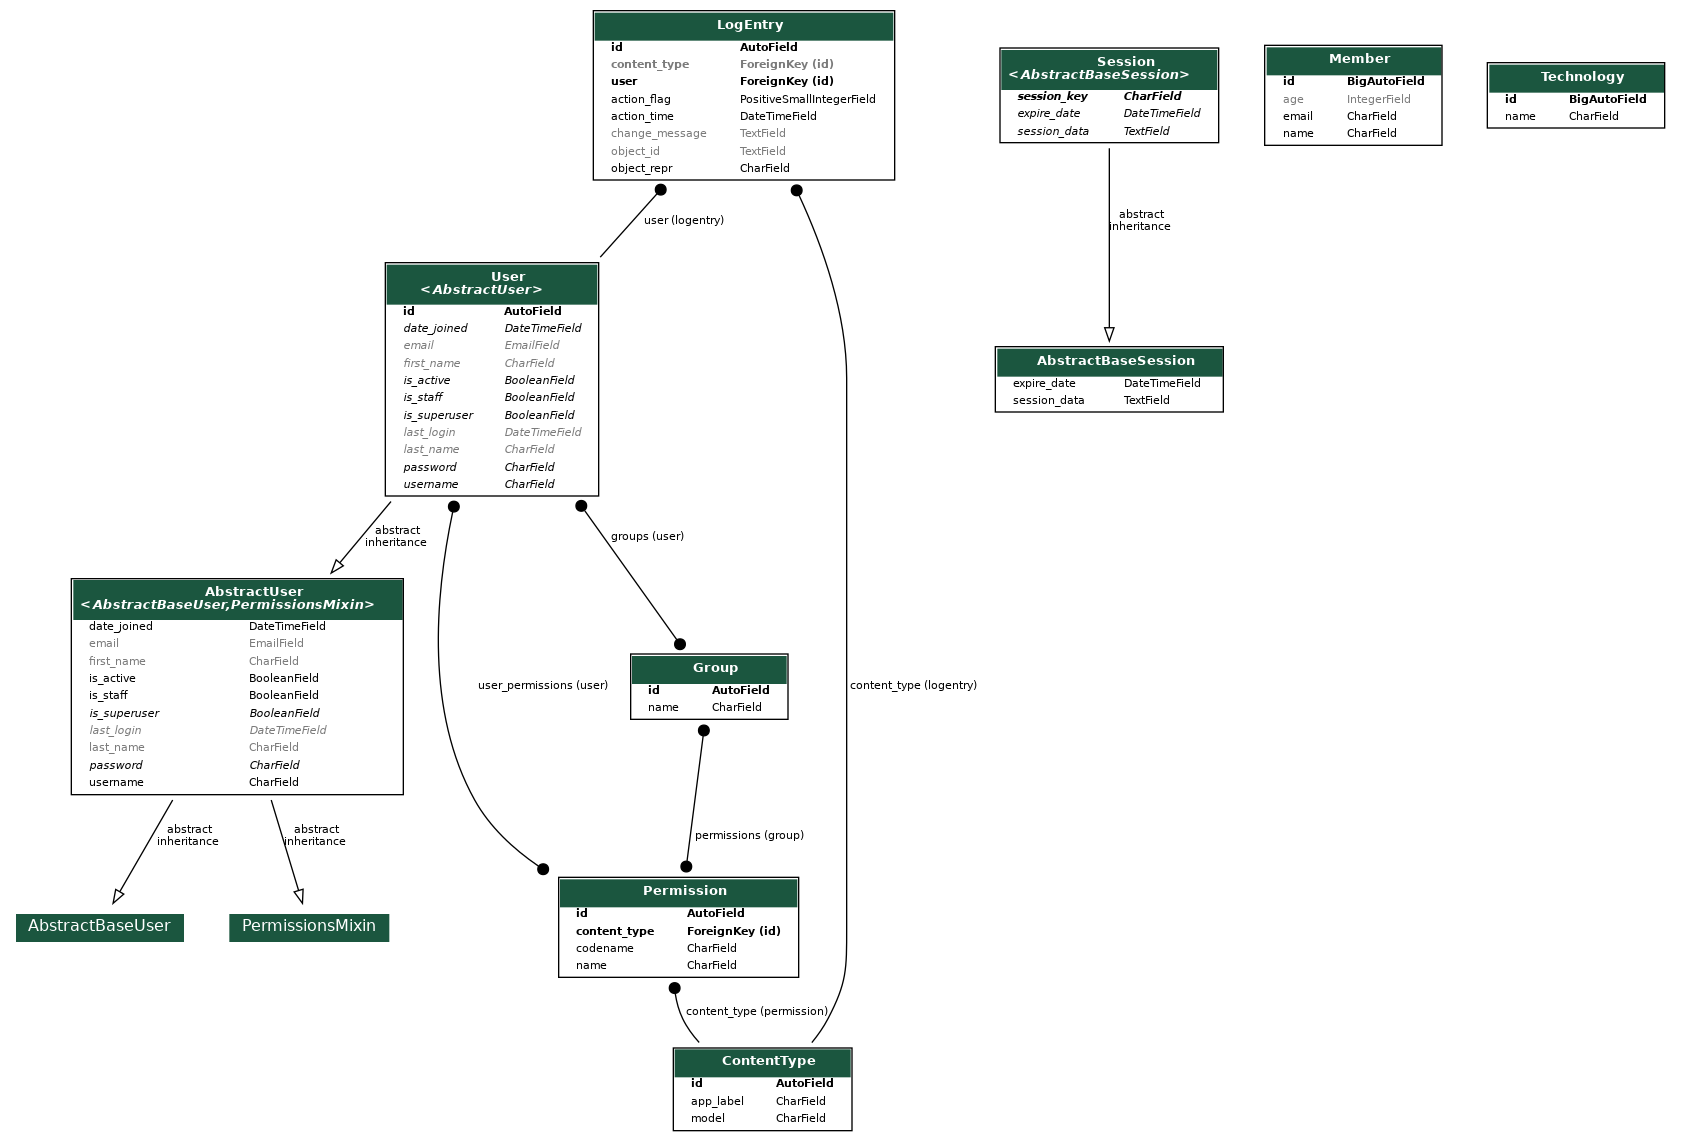
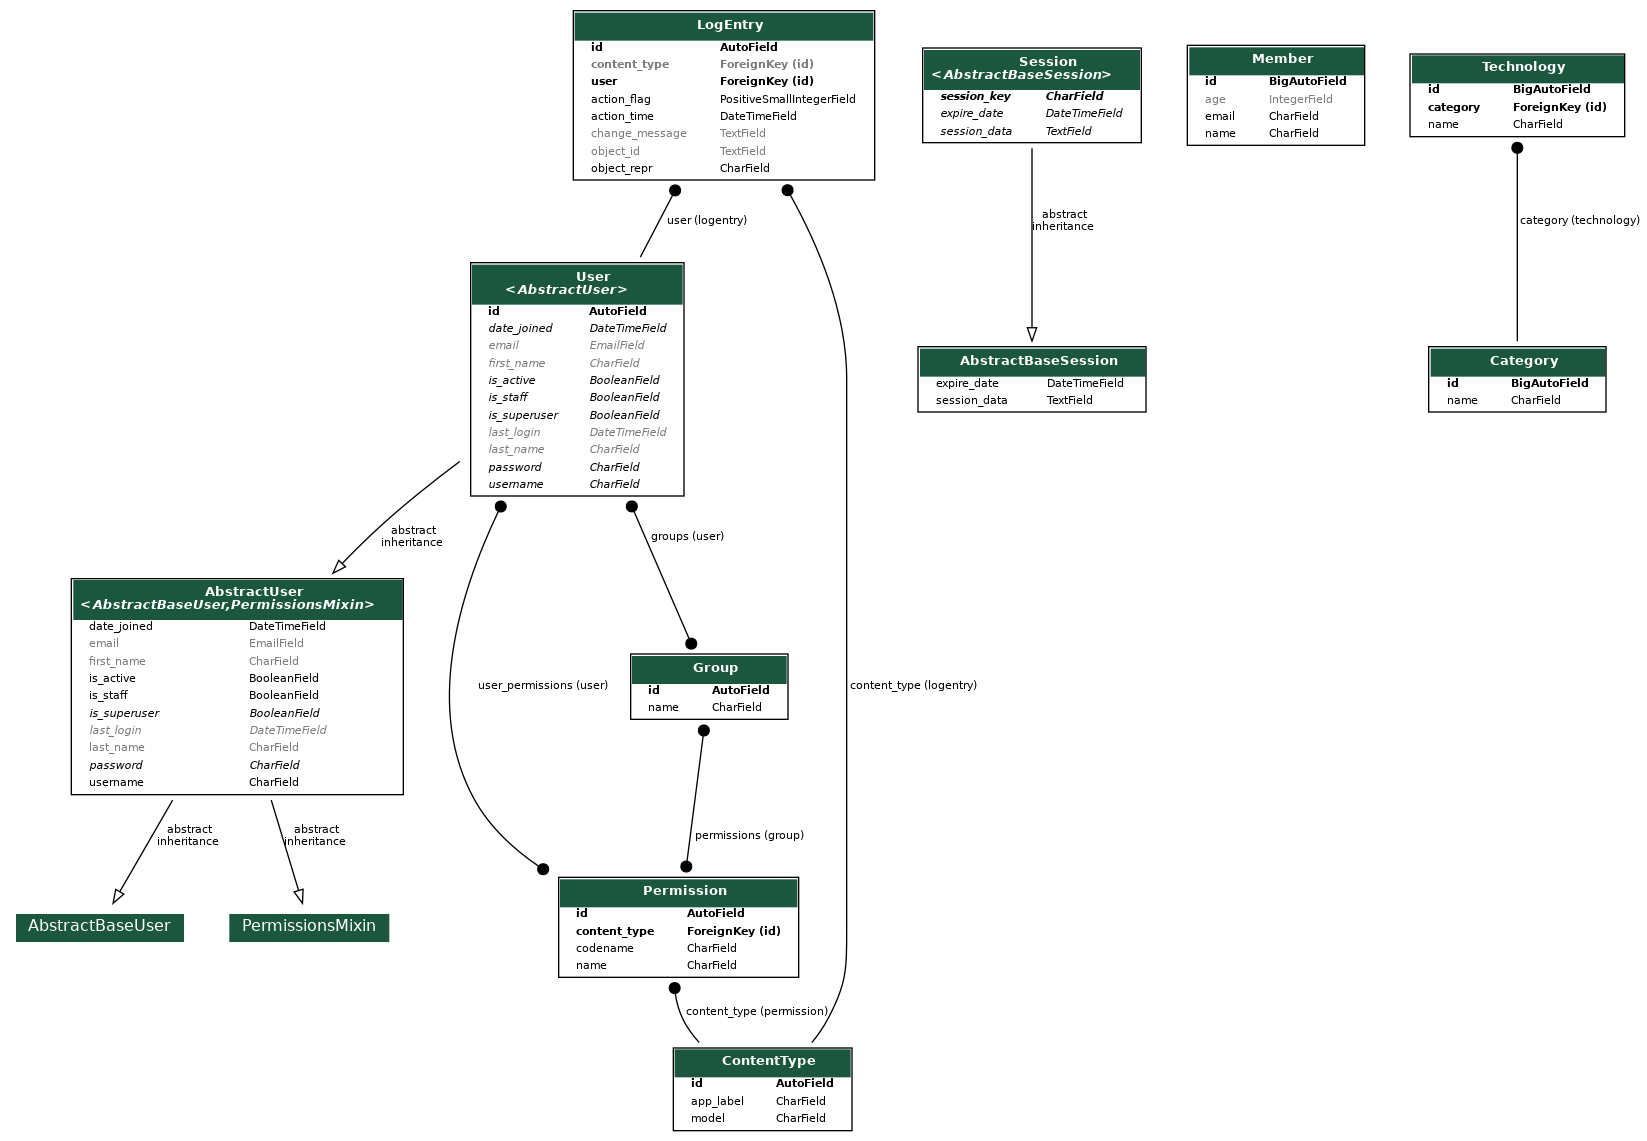
[django] Modify models.py

diff --git a/django-copilot/webapi/models.py b/django-copilot/webapi/models.py
@@ -1,4 +1,5 @@
 from django.db import models
+from django.contrib.auth import get_user_model
 
 class Member(models.Model):
     name = models.CharField('氏名', max_length=255)
@@ -11,5 +12,30 @@ class Member(models.Model):
     class Meta:
         db_table = 'member'
 
+class Category(models.Model):
+    name = models.CharField('カテゴリ名', max_length=255)
+
+    class Meta:
+        db_table = 'category'
+
+    def __str__(self):
+        return self.name
+
+
 class Technology(models.Model):
+    category = models.ForeignKey(Category, verbose_name="カテゴリID", on_delete=models.CASCADE)
     name = models.CharField('技術名', max_length=255)
+
+    def __str__(self):
+        return self.name
+
+    class Meta:
+        db_table = 'technology'
+
+# TODO : 以下、設計中
+# class ExperienceTechnology(models.Model):
+#     user_id = models.ForeignKey(get_user_model(), verbose_name="会員ID", on_delete=models.CASCADE)
+#     technology = models.ForeignKey(Technology, verbose_name="技術ID", on_delete=models.CASCADE)
+
+#     class Meta:
+#         db_table = 'experience_technology'
